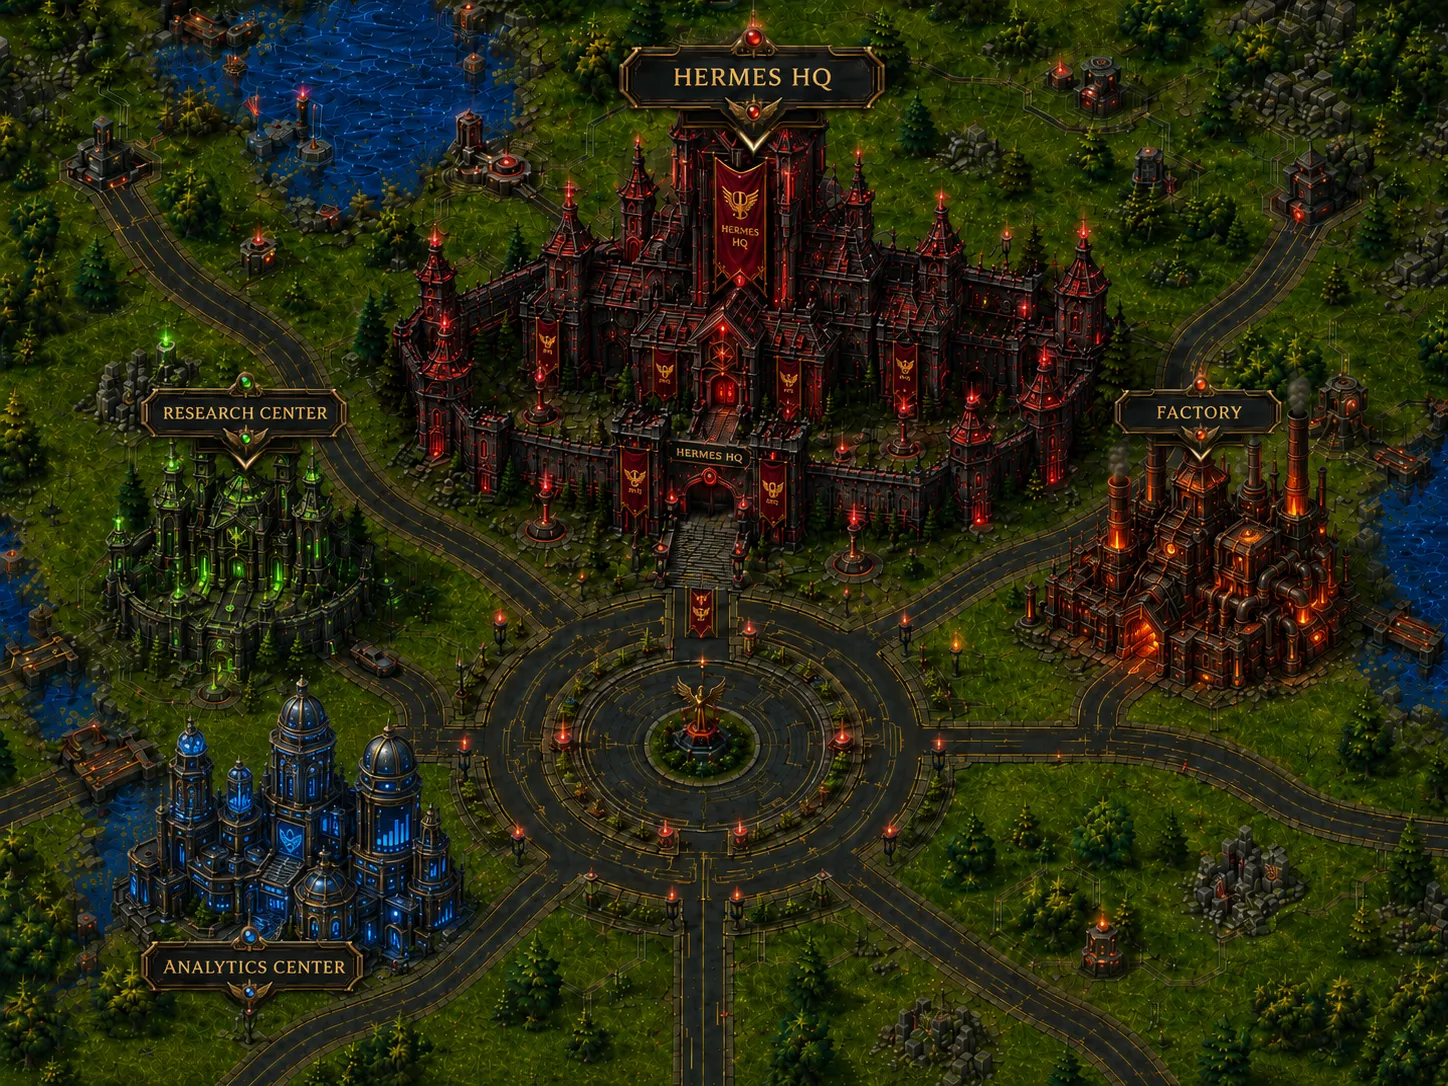
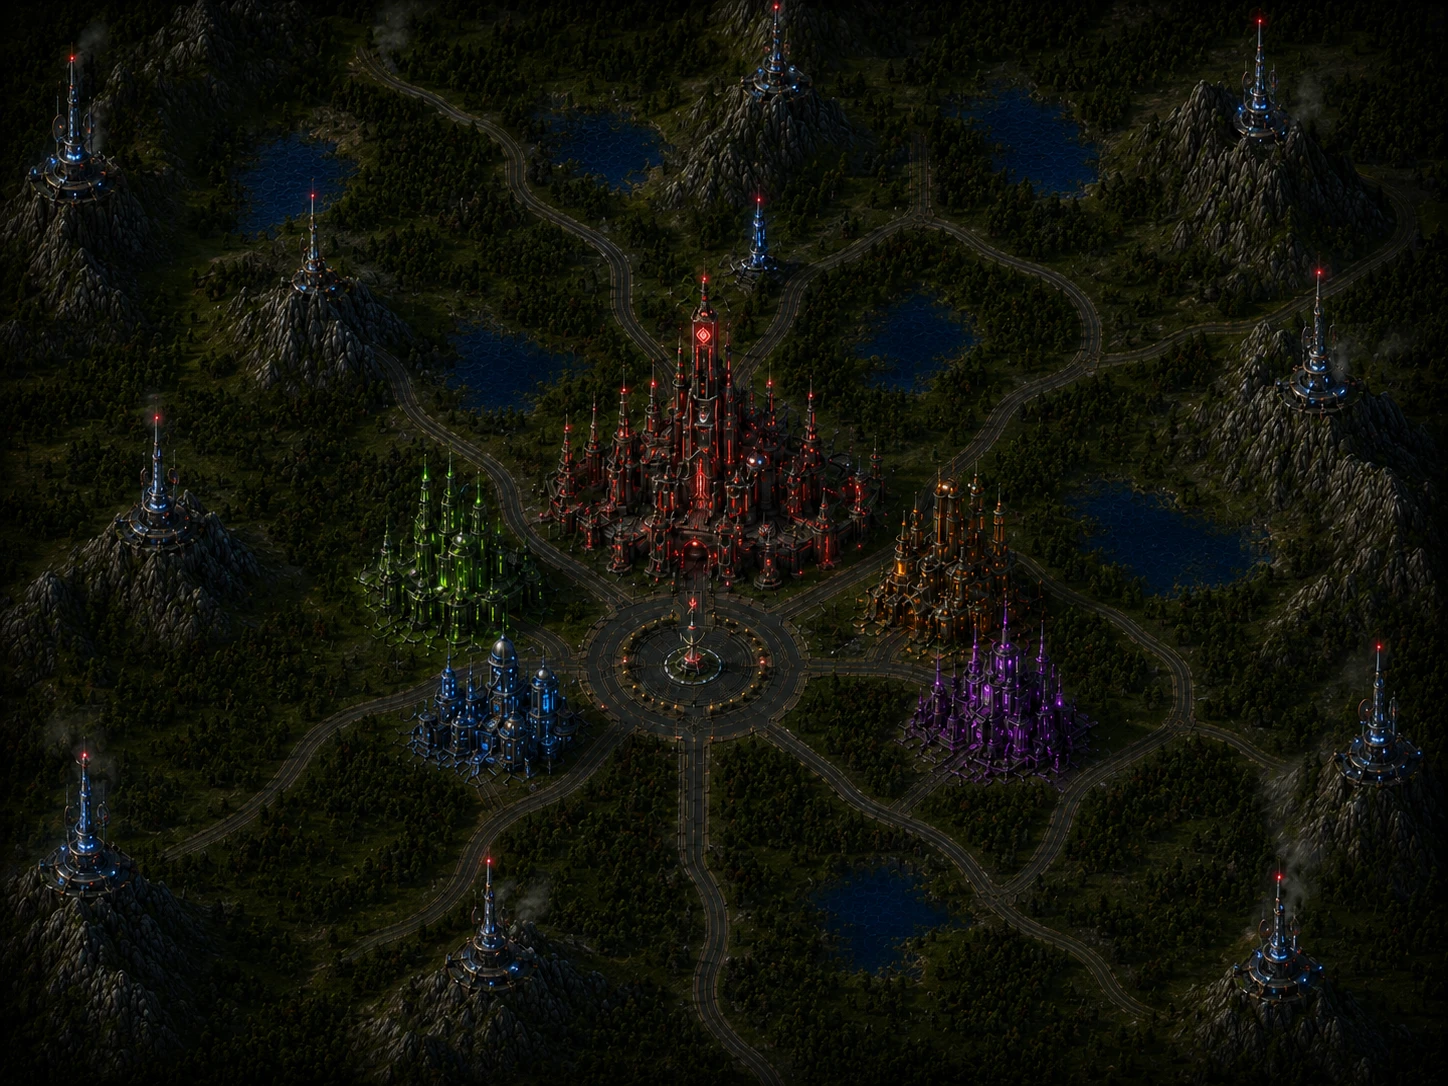
Byt till den storre utzoomade kartbilden med mer yta att utforska
- assets/ecosystem.png ersatt med den nya bilden (samma pixelmatt men
  visar ett mycket storre omrade: berg, sjoar och vildmark runt staden)
- Lamporna omdetekterade for nya bilden (58 st) och glodradien anpassad
  till den mindre skalan
- Max-zoom hojd (cover x8) sa man kan zooma in pa byggnaderna och
  skrolla runt i den storre varlden
- Fabriksroken avstangd tills vidare: skorstenarna ar for sma i den
  utzoomade bilden for saker placering (CHIMNEYS-listan ar kvar, redo
  att fyllas i igen)

Claude-Session: https://claude.ai/code/session_015kz6un1MtHdJ6ZSN9t2GV3

diff --git a/js/lamps.js b/js/lamps.js
@@ -1,4 +1,4 @@
 // Positioner för befintliga lampor/facklor i kartan (autogenererat).
 // Format: [x, y, r, g, b] i bildkoordinater. Anvands av main.js for det
 // animerade ljus-lagret. Ror inte manuellt.
-window.LAMPS = [[1294,512,255,190,9],[1116,546,255,224,48],[1165,662,255,205,40],[1286,643,255,216,81],[1321,531,255,190,72],[1248,539,254,150,31],[956,643,255,192,77],[1169,550,255,193,84],[985,301,238,213,96],[1240,559,255,219,119],[699,701,255,233,139],[1029,614,249,167,68],[1101,922,255,180,89],[27,659,255,224,135],[1177,586,255,233,148],[378,748,255,245,162],[198,19,253,214,132],[12,553,255,164,84],[267,259,255,176,97],[1203,386,255,130,55],[1150,499,255,154,79],[740,198,237,179,87],[468,6,255,225,152],[489,157,255,227,154],[236,554,237,229,139],[671,898,255,137,66],[756,41,255,118,48],[550,342,220,153,48],[701,597,235,154,65],[518,832,255,212,143],[1061,902,214,202,92],[393,217,217,207,101],[1194,486,245,130,53],[1111,580,255,174,107],[1058,756,253,191,123],[890,829,255,177,111],[702,662,255,194,130],[737,895,255,220,156],[111,185,255,209,146],[1203,456,255,225,162],[1207,690,255,165,102],[435,453,255,144,84],[1294,478,233,130,48],[155,942,242,213,140],[1101,961,243,154,82],[754,193,228,164,79],[939,744,255,213,155],[93,768,243,152,82],[1121,890,255,211,154],[869,47,246,223,158],[636,49,242,210,141],[745,138,250,235,174],[1323,677,227,186,102],[336,962,244,214,147],[851,556,255,219,164],[108,762,233,191,114],[1148,150,255,190,136],[1006,232,255,166,112],[660,548,251,140,82],[721,394,255,123,70],[90,158,215,191,99],[905,361,255,181,129],[722,373,255,189,137],[1362,677,231,198,122],[591,874,246,192,131],[842,736,255,204,153],[759,141,255,227,177],[582,576,255,208,158],[562,734,255,152,102],[753,168,240,200,136],[253,458,252,231,179],[543,523,252,197,145],[664,831,255,191,142],[316,964,223,195,114],[868,106,255,217,170],[766,484,237,159,94],[757,113,255,159,113],[842,447,255,194,148],[464,741,255,200,154],[259,964,234,202,135],[739,41,255,240,195],[1298,215,255,179,134],[786,380,216,154,70],[254,111,248,127,76],[904,621,255,217,173],[247,24,245,176,124],[506,162,255,193,152],[753,25,255,170,130],[499,615,254,119,78],[473,57,248,196,150],[94,726,250,196,153],[723,327,255,182,145],[721,352,251,162,121],[1353,404,255,170,133],[978,520,255,231,194],[349,943,220,182,110],[1091,92,255,201,165],[1126,391,245,227,181],[748,629,255,223,187],[235,58,255,215,180],[635,480,212,133,55],[1309,679,211,190,111],[739,829,255,202,167],[169,961,219,167,96],[1049,398,255,190,156],[683,161,255,195,162],[1324,180,230,171,113],[972,398,255,163,130],[903,408,255,222,189],[331,643,215,211,139],[384,728,238,219,170],[637,140,255,183,152],[730,168,231,171,116],[1051,480,255,127,96],[249,1010,255,193,162],[846,591,255,163,133],[1199,507,240,142,98],[1240,651,217,151,84],[475,172,255,224,196],[1059,69,255,173,146],[302,95,255,209,182],[89,179,246,147,112],[664,366,224,171,114],[1129,610,234,144,97],[788,173,255,129,104],[1044,359,255,220,195],[858,152,255,197,173],[716,158,225,157,103],[434,239,255,193,169],[1400,451,240,160,121],[300,708,239,209,169],[723,228,215,153,90],[257,240,255,151,128],[1405,467,240,183,145],[672,498,255,145,122],[1248,507,218,153,93],[738,241,224,151,98],[1025,307,255,176,154],[539,407,255,195,173],[976,434,255,165,143],[1202,523,225,158,106],[1085,630,227,119,69],[317,540,219,192,135],[648,193,231,118,74],[935,245,255,147,127],[739,281,255,182,162],[1275,660,217,199,141],[940,197,255,166,147],[1083,231,255,145,126],[772,457,255,134,115],[207,962,225,196,147],[1301,628,212,122,61],[312,904,212,180,120],[568,195,255,211,195],[444,321,255,152,136],[853,519,255,183,167],[1400,659,222,202,154],[321,864,227,214,171],[673,174,242,135,108],[1280,402,212,176,120],[176,21,232,201,166],[625,470,216,152,101],[700,451,213,187,134],[485,488,255,163,152],[1094,938,215,171,120],[660,239,255,193,183],[787,411,255,181,171],[1069,606,217,156,108],[544,487,250,155,141],[699,687,213,190,139],[1230,689,210,120,66],[632,185,222,124,84],[333,390,224,183,145],[1228,618,218,148,104],[127,762,213,191,142],[235,939,227,208,173],[330,217,251,207,197],[154,389,219,196,154],[902,439,246,162,147],[919,758,214,185,138],[136,862,226,200,165],[1143,686,210,138,89],[366,772,224,202,169],[737,545,248,163,155]];
+window.LAMPS = [[899,567,254,174,60],[939,485,255,218,149],[951,489,253,198,144],[915,511,231,166,92],[634,686,235,198,142],[924,575,235,189,134],[711,707,222,184,122],[882,587,248,217,184],[945,612,213,151,83],[695,544,255,166,141],[602,706,252,206,178],[709,335,255,160,136],[857,486,255,189,167],[903,523,222,153,99],[762,661,255,212,191],[811,450,255,154,134],[621,434,250,183,160],[692,600,254,169,150],[759,672,224,205,157],[675,706,221,175,124],[698,332,255,183,167],[702,415,255,179,166],[700,476,255,186,173],[624,672,223,201,156],[643,695,224,199,155],[702,314,247,168,149],[700,488,255,173,162],[776,6,255,175,165],[704,279,255,169,159],[769,382,255,174,164],[768,560,242,143,120],[751,462,248,196,181],[686,659,255,186,178],[71,58,255,151,144],[700,464,246,132,116],[624,389,255,174,168],[743,693,214,192,145],[678,376,236,179,155],[619,547,244,128,112],[624,660,244,199,183],[731,700,216,187,143],[157,417,255,163,159],[566,428,255,187,183],[810,437,244,164,150],[1259,21,255,178,176],[672,497,240,156,139],[1378,646,255,175,173],[652,383,255,189,188],[810,395,255,190,189],[1279,876,255,197,196],[662,454,229,172,146],[665,476,231,171,148],[662,703,209,182,137],[652,452,229,132,108],[858,509,243,183,174],[746,630,210,178,136],[643,626,208,179,136],[751,686,209,184,142]];

diff --git a/js/main.js b/js/main.js
@@ -56,7 +56,9 @@ function computeMinScale() {
   const contain = Math.min(width / img.width, height / img.height);
   viewState.defaultScale = cover;
   viewState.minScale = contain;
-  viewState.maxScale = cover * 4;
+  // Hög max-zoom: nya kartbilden visar ett stort område, så man ska kunna
+  // zooma in ordentligt på byggnaderna och skrolla runt.
+  viewState.maxScale = cover * 8;
   if (viewState.scale < viewState.minScale) viewState.scale = viewState.minScale;
   if (viewState.scale > viewState.maxScale) viewState.scale = viewState.maxScale;
 }
@@ -139,7 +141,7 @@ const lamps = (window.LAMPS || []).map(([x, y, r, g, b]) => {
     ph2: h2 * Math.PI * 2,
     sp1: 1.6 + h2 * 1.6,
     sp2: 3.8 + h1 * 2.4,
-    baseR: 11,
+    baseR: 6,
     col: [Math.min(255, r + 30), Math.min(255, g + 42), Math.min(255, b + 12)],
   };
 });
@@ -177,12 +179,10 @@ function drawGlows() {
 }
 
 // ---- Fabriksrök: rökpluymer som stiger ur Factorys skorstenar ----
-// Positionerna hittades genom att analysera bildens pixlar (mörka, smala
-// skorstenspelare med redan bakad rök ovanför), i bildkoordinater.
-const CHIMNEYS = [
-  { x: 1343, y: 402 },
-  { x: 1399, y: 292 },
-];
+// OBS: tom just nu — den nya kartbilden är utzoomad och skorstenarna är
+// för små för säker placering. Lägg till { x, y } i bildkoordinater när
+// rök önskas igen.
+const CHIMNEYS = [];
 
 let smokeParticles = [];
 const lastSmokeSpawn = CHIMNEYS.map(() => 0);
